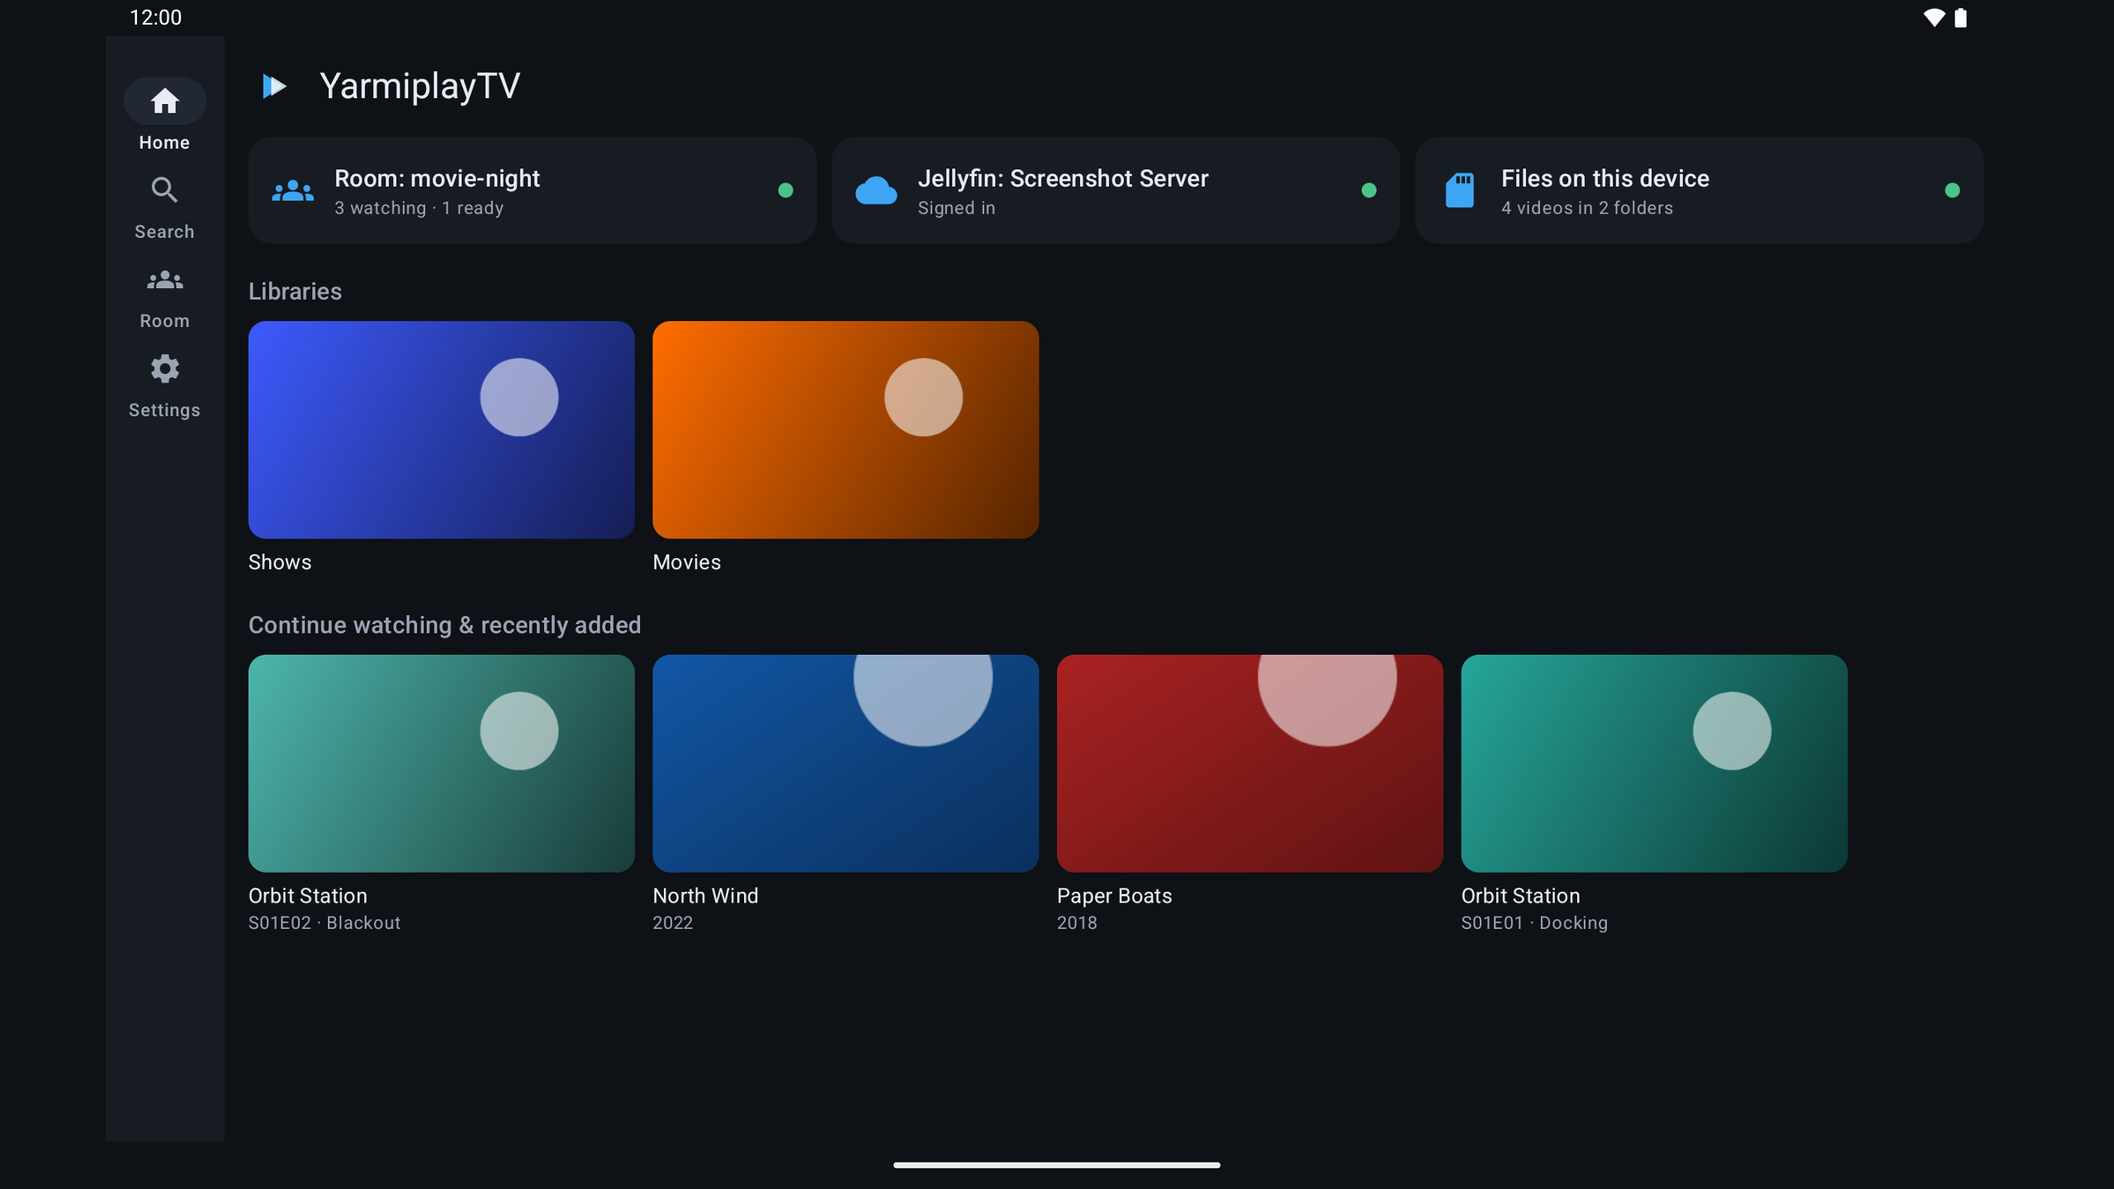
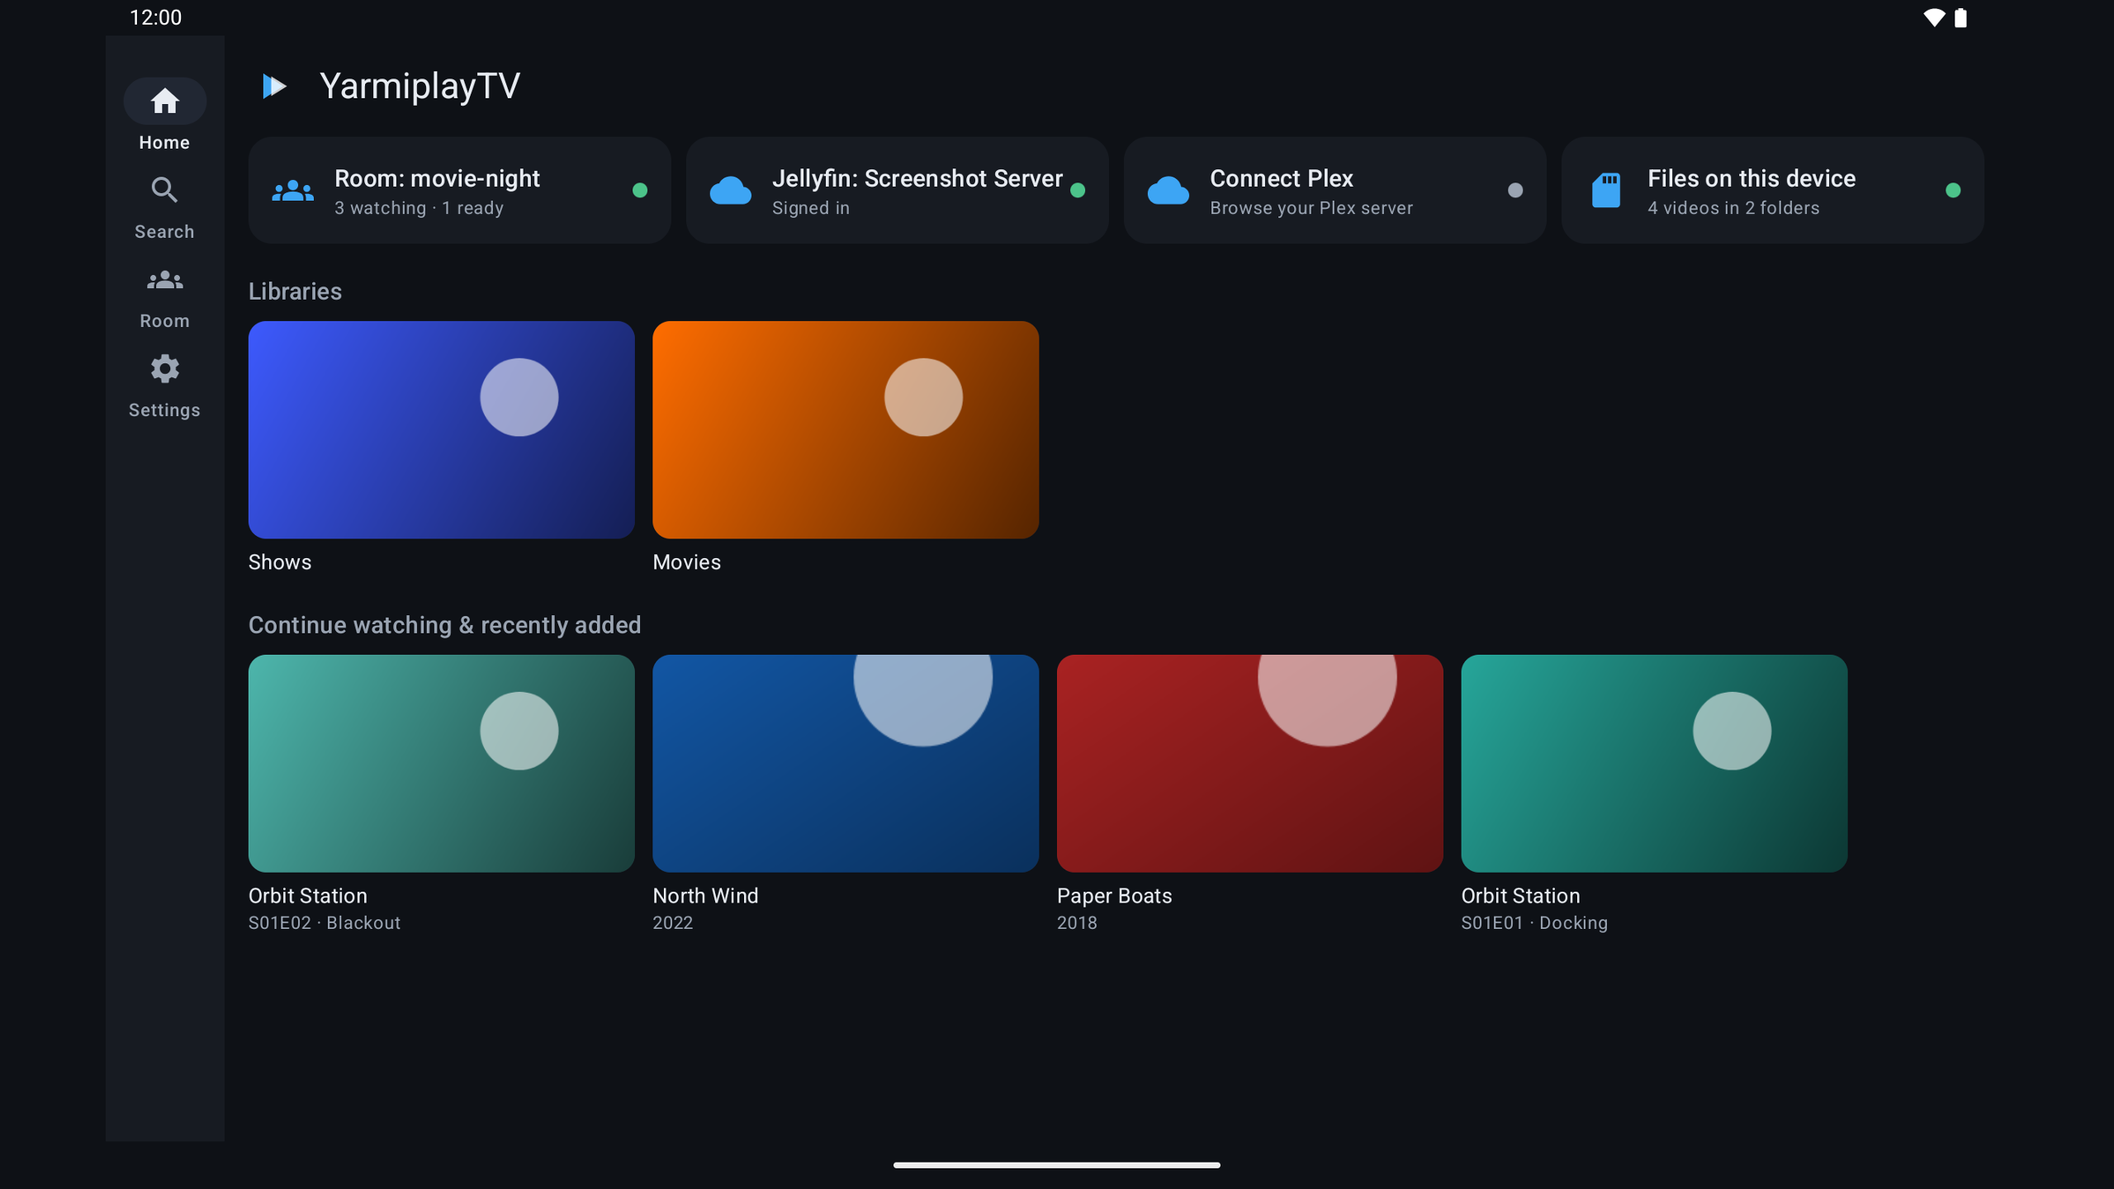
Play listing mentions Plex; testers page at /test/ with a footer link; Getting testers in the Play docs; manual Play upload from a Release run; Play screenshots from 1.4.2

Changed region(s): [[0.3125, 0.125, 0.875, 0.1875]]

diff --git a/scripts/download_site.py b/scripts/download_site.py
@@ -9,7 +9,8 @@ its download and install steps.
 Files in --dist are sorted onto platforms by extension (.apk: TV and phone/tablet, .msi/.zip: Windows,
 .dmg/.pkg: macOS, .deb/.rpm/.AppImage: Linux) and copied under stable names such as YarmiplayTV.apk, so links
 keep working across builds. <site>/a/ redirects to the APK for TV apps like Downloader, <site>/privacy/
-is docs/privacy.md (the Play Store privacy policy), and <site>/version.json lists each platform's package
+is docs/privacy.md (the Play Store privacy policy), <site>/test/ is docs/testers.md (how to join the Google Play
+test), and <site>/version.json lists each platform's package
 and version for the apps' update check. With --site-url the pages carry canonical URLs and the site a
 sitemap.xml for search engines; --indexnow-key publishes the key file that lets the Pages workflow notify IndexNow.
 Platforms without a file or store listing show how to run from source. The Pages workflow publishes the result; scripts/apk_server.py serves the
@@ -47,6 +48,15 @@ LOGO_SVG = (
     '<g transform="translate(54 54) scale(1.3) translate(-54 -54)">'
     '<path d="M30 28V80L70 54Z" fill="#3DA5F4"/><path d="M46 34V74L78 54Z" fill="#fff" fill-opacity=".8"/></g>'
     '</svg>'
+)
+# Markdown docs published as pages: file in docs/, folder on the site, footer link, search description.
+DOCS = (
+    ("privacy.md", "privacy", "Privacy",
+     f"{NAME} privacy policy: the app collects no data, has no accounts, analytics or ads, and only connects to "
+     "the servers you choose."),
+    ("testers.md", "test", "Help test on Google Play",
+     f"Help test {NAME} on Google Play: join the testers group, opt in, install it on your Android phone, tablet "
+     "or Google TV and use it for 14 days."),
 )
 # Store listings: the platform's main button, with its files as smaller buttons below.
 STORE_LINKS = {
@@ -188,9 +198,9 @@ def app_head(version, site_url=None, preview=False):
     return "\n".join(tags)
 
 
-def render_page(downloads, version, built, short_link=None, privacy=False, site_url=None,
+def render_page(downloads, version, built, short_link=None, docs=(), site_url=None,
                 google_verification=None, preview=False):
-    """downloads: {platform key: [Download]}. Returns the page as a str."""
+    """downloads: {platform key: [Download]}; docs: the DOCS entries published next to it. Returns the page as a str."""
     cards = []
     for p in platforms(short_link):
         files = downloads.get(p.key, [])
@@ -280,7 +290,7 @@ def render_page(downloads, version, built, short_link=None, privacy=False, site_
  <strong>Host your own server</strong>
  <p><a href="{SERVER_URL}">YarmiplayServerTV</a> runs a Syncplay server and a Jellyfin server from your Windows, macOS or Linux computer.</p>
 </section>
-<footer><a href="{REPO_URL}">Source</a>{' &middot; <a href="privacy/">Privacy</a>' if privacy else ''}
+<footer><a href="{REPO_URL}">Source</a>{''.join(f' &middot; <a href="{folder}/">{label}</a>' for _, folder, label, _ in docs)}
  &middot; <a href="{REPO_URL}#code-signing-policy">Code signing policy</a></footer>
 </main>
 <script>
@@ -318,8 +328,9 @@ def inline_markdown(text):
 
 
 def markdown_to_html(md):
-    """The Markdown docs/privacy.md uses: # headings, paragraphs and "- " lists, lines wrapped freely."""
+    """The Markdown the docs pages use: # headings, paragraphs, "- " and "1. " lists, lines wrapped freely."""
     blocks, para, items = [], [], []
+    list_tag = "ul"
 
     def flush():
         if para:
@@ -327,22 +338,25 @@ def markdown_to_html(md):
             para.clear()
         if items:
             lis = "".join(f"<li>{inline_markdown(html.escape(i, quote=False))}</li>" for i in items)
-            blocks.append(f"<ul>{lis}</ul>")
+            blocks.append(f"<{list_tag}>{lis}</{list_tag}>")
             items.clear()
 
     for line in md.splitlines():
         stripped = line.strip()
         heading = re.match(r"(#{1,3}) (.+)", stripped)
+        item = re.match(r"(-|\d+\.) (.+)", stripped)
         if not stripped:
             flush()
         elif heading:
             flush()
             level = len(heading.group(1))
             blocks.append(f"<h{level}>{inline_markdown(html.escape(heading.group(2), quote=False))}</h{level}>")
-        elif stripped.startswith("- "):
-            if para:
+        elif item:
+            tag = "ul" if item.group(1) == "-" else "ol"
+            if para or (items and tag != list_tag):
                 flush()
-            items.append(stripped[2:])
+            list_tag = tag
+            items.append(item.group(2))
         elif items and line.startswith(" "):
             items[-1] += " " + stripped
         else:
@@ -442,15 +456,18 @@ def build(dist, out, version, site_url, desktop_version=None, google_verificatio
 
     root = os.path.dirname(os.path.dirname(os.path.abspath(__file__)))
     pages = [""]
-    privacy = os.path.join(root, "docs", "privacy.md")
-    if os.path.isfile(privacy):
-        os.makedirs(os.path.join(out, "privacy"))
-        with open(privacy, encoding="utf-8") as src, \
-                open(os.path.join(out, "privacy", "index.html"), "w", encoding="utf-8") as f:
-            f.write(render_doc(src.read(), f"{NAME} privacy policy: the app collects no data, has no accounts, "
-                               "analytics or ads, and only connects to the servers you choose.",
-                               site_url, "privacy/"))
-        pages.append("privacy/")
+    docs = []
+    for doc in DOCS:
+        name, folder, _, description = doc
+        md = os.path.join(root, "docs", name)
+        if not os.path.isfile(md):
+            continue
+        os.makedirs(os.path.join(out, folder))
+        with open(md, encoding="utf-8") as src, \
+                open(os.path.join(out, folder, "index.html"), "w", encoding="utf-8") as f:
+            f.write(render_doc(src.read(), description, site_url, f"{folder}/"))
+        pages.append(f"{folder}/")
+        docs.append(doc)
 
     with open(os.path.join(out, "favicon.svg"), "w", encoding="utf-8") as f:
         f.write(LOGO_SVG.replace("<svg ", '<svg xmlns="http://www.w3.org/2000/svg" ', 1))
@@ -461,7 +478,7 @@ def build(dist, out, version, site_url, desktop_version=None, google_verificatio
     now = datetime.datetime.now(datetime.timezone.utc)
     built = now.strftime("%Y-%m-%d %H:%M UTC")
     with open(os.path.join(out, "index.html"), "w", encoding="utf-8") as f:
-        f.write(render_page(by_platform(downloads), version, built, short_link, os.path.isfile(privacy), site_url,
+        f.write(render_page(by_platform(downloads), version, built, short_link, docs, site_url,
                             google_verification, preview))
     if site_url:
         with open(os.path.join(out, "sitemap.xml"), "w", encoding="utf-8") as f:

diff --git a/docs/play/README.md b/docs/play/README.md
@@ -22,7 +22,7 @@ re-recording screenshots.
 
 **Short description** (80 max):
 
-> Watch videos in sync with friends. Works with Syncplay servers and Jellyfin.
+> Watch videos in sync with friends. Works with Syncplay, Jellyfin and Plex.
 
 **Full description:**
 
@@ -39,9 +39,10 @@ re-recording screenshots.
 > • Small drifts are corrected smoothly, big ones by jumping back in sync
 >
 > YOUR VIDEOS, YOUR WAY
-> • Browse and search your Jellyfin library, sign in with Quick Connect
+> • Browse and search your Jellyfin and Plex libraries, on several servers at once
+> • Sign in to Jellyfin with Quick Connect and to Plex at plex.tv/link, no typing on the TV
 > • Play files from your phone or tablet, or add whole folders
-> • When the room plays a file, YarmiplayTV finds it in your Jellyfin library or folders by itself
+> • When the room plays a file, YarmiplayTV finds it in your libraries or folders by itself
 >
 > A REAL PLAYER
 > • Built on mpv: plays almost any format, with hardware decoding
@@ -55,9 +56,9 @@ re-recording screenshots.
 > No accounts, no ads, no tracking. YarmiplayTV is open source:
 > https://github.com/Yarmiplay/YarmiplayTV
 >
-> YarmiplayTV is an independent app. It is not affiliated with or endorsed by the Syncplay project or
-> Jellyfin. Syncplay and Jellyfin are named only to describe compatibility. YarmiplayTV doesn't provide
-> any videos: you watch your own files and media servers.
+> YarmiplayTV is an independent app. It is not affiliated with or endorsed by the Syncplay project, Jellyfin
+> or Plex, which are named only to describe compatibility. YarmiplayTV doesn't provide any videos: you watch
+> your own files and media servers.
 
 **Category:** Video Players & Editors. **Tags:** video player, watch party (pick the closest offered).
 **Contact email:** required, shown publicly; use an address you're happy to publish.
@@ -72,7 +73,8 @@ re-recording screenshots.
 **App access:** "All functionality is available without special access." For the reviewer notes:
 "No account is needed. To try sync, open Room (or Join a Syncplay room on TV), keep the server syncplay.pl
 port 8999, enter any name and a room name such as reviewtest, and connect. Play a video from the device to
-see the shared player. Jellyfin is optional and needs the user's own server."
+see the shared player. Jellyfin and Plex are optional and need the user's own server (and, for Plex, a Plex
+account)."
 
 **Content rating questionnaire (IARC):** category "All other app types". Answer No to violence, sexuality,
 language, controlled substances, gambling. Answer **Yes** to "users can interact or exchange content" (room
@@ -86,16 +88,18 @@ doesn't apply. Answer No to "could unintentionally appeal to children".
 
 **Data safety:**
 - "Does your app collect or share any of the required user data types?" **No.** The developer receives
-  nothing; the app only connects to servers the user enters, like other Jellyfin and Syncplay clients. The
-  Play build (release) doesn't run the download page's update check.
+  nothing; the app only connects to servers the user enters or picks (and to plex.tv when the user signs in
+  to Plex), like other Syncplay, Jellyfin and Plex clients. Watch progress goes only to the user's own media
+  servers. The Play build (release) doesn't run the download page's update check.
 - "Is all of the user data collected by your app encrypted in transit?" isn't asked when nothing is
-  collected. If you choose to declare the room data instead (see below), answer No: plain Syncplay and
-  local Jellyfin servers aren't encrypted.
+  collected. If you choose to declare the room data instead (see below), answer No: plain Syncplay servers
+  and Jellyfin and Plex servers on a home network over HTTP aren't encrypted.
 - "Do you provide a way for users to request that their data is deleted?" Not asked when nothing is collected.
-- A more cautious alternative, because the default server syncplay.pl is run by a third party: declare
-  Personal info > Name and Messages > Other in-app messages as **shared**, not collected, for **App
-  functionality**, not optional, and not processed by the developer. Either way, keep it consistent with
-  `docs/privacy.md`.
+- A more cautious alternative, because the default server syncplay.pl and plex.tv are run by third parties:
+  declare Personal info > Name and Messages > Other in-app messages (the Syncplay room), and Device or other
+  IDs (the random device id plex.tv gets at sign-in), as **shared**, not collected, for **App
+  functionality**; Name and Messages not optional, the device id optional (only with Plex); none processed
+  by the developer. Either way, keep it consistent with `docs/privacy.md`.
 
 **Permissions declarations:** none needed (no SMS, call log, location, all-files access or background
 location).
@@ -113,26 +117,46 @@ location).
 1. **Internal testing:** upload the bundle from the `Release bundle` workflow (or a local
    `:app:bundleRelease`) and add yourself as a tester. Install from the opt-in link on a phone and on a Google
    TV to check that the Play build works.
-2. **Closed testing** (required for personal accounts created after November 2023): create a closed track with
-   a Google Group or an email list of at least **12 testers**, who must stay opted in for **14 days in a row**.
-   Google also looks at whether testers actually use the app, so ask them to join a room together a few times
-   during those two weeks, on phones and TVs. Fix anything in the pre-launch report (crashes, ANRs,
-   accessibility warnings worth fixing) and upload a new version if needed; the 14 days don't restart.
-   A message for testers:
-
-   > I'm testing my watch-together app YarmiplayTV before it goes on Google Play, and Google needs 12 people
-   > to try it for two weeks. 1) Join the testers group: <group link>. 2) Open <opt-in link> on your Android
-   > phone, tablet or Google TV and tap "Become a tester", then install from Play. 3) Keep it installed for 14
-   > days and join our room a few times (server syncplay.pl, port 8999, room <room>), so we can watch
-   > something together. Tell me anything that breaks or confuses you.
-
+2. **Closed testing** (required for personal accounts created after November 2023): the `alpha` track, with
+   the Google Group `yarmiplaytv-testers@googlegroups.com` as testers and all countries. It needs at least
+   **12 testers** who stay opted in for **14 days in a row**. Google also looks at whether testers actually
+   use the app, so ask them to join a room together a few times during those two weeks, on phones and TVs.
+   Fix anything in the pre-launch report (crashes, ANRs, accessibility warnings worth fixing) and upload a new
+   version if needed; the 14 days don't restart. See [Getting testers](#getting-testers).
 3. **Apply for production** (Dashboard > Apply for production) after the 14 days. It asks how testers were
    recruited, what feedback came in and what changed; answer from the test. Review takes up to about a week.
 4. **Production:** roll out, staged if you like. The TV opt-in is reviewed separately and can take longer.
+   Then set the variable `PLAY_TRACK` to `production`.
+
+## Getting testers
+
+Testers join on their own from the testers page, `https://yarmiplay.github.io/YarmiplayTV/test/` (from
+`docs/testers.md`, linked in the download page's footer). It walks them through joining the Google Group
+(`https://groups.google.com/g/yarmiplaytv-testers`: anyone can join, members can't see each other's
+addresses), the opt-in link `https://play.google.com/apps/testing/com.yarmiplaytv` and installing from Play,
+and asks people with the download page's APK to uninstall it first. The opt-in link only works once the
+closed track has passed review; until then the page tells people to come back later.
+
+- **Share the page** wherever friends and Syncplay users are: chats, the GitHub README or release notes,
+  forums. A message:
+
+  > I'm getting my watch-together app YarmiplayTV onto Google Play, and Google needs 12 people to test it for
+  > two weeks first. If you have an Android phone, tablet or Google TV, joining takes a few minutes:
+  > https://yarmiplay.github.io/YarmiplayTV/test/. Then keep it installed for 14 days and join our room a few
+  > times (server syncplay.pl, port 8999, room <room>), so we can watch something together. Tell me anything
+  > that breaks or confuses you.
+
+- **Count:** Play Console > Test and release > Testing > Closed testing > the track > **Testers** shows how
+  many people have opted in. Group members who never opened the opt-in link don't count.
+- **Apply for production** once at least 12 testers have stayed opted in for 14 days in a row: the Dashboard
+  then offers **Apply for production** (see Releases, step 3). Keep the closed track running while the
+  application is reviewed.
 
 ## Automatic uploads
 
-After the first bundle has been uploaded by hand, the Release run's `play` job can upload each version:
+After the first bundle has been uploaded by hand, the Release run's `play` job uploads each version tag's
+bundle. A manual Release run (Actions > Release > Run workflow) with **play** checked uploads the chosen
+branch's bundle without a tag, as long as its version code isn't on Play yet. Set it up once:
 
 1. In [Google Cloud](https://console.cloud.google.com/), enable the **Google Play Android Developer API** in a
    project, create a service account there and download a JSON key for it.

diff --git a/docs/testers.md b/docs/testers.md
@@ -1,0 +1,49 @@
+# Help test YarmiplayTV on Google Play
+
+YarmiplayTV is on its way to Google Play. Before Google lets a new app in, at least 12 people have to test it
+for 14 days in a row. If you'd like to help, it takes a few minutes to join, and then you just use the app now
+and then.
+
+## Who can join
+
+Anyone with an Android phone, tablet or Google TV / Android TV (Android 8.0 or newer) and a Google account.
+It's free, and you don't need to know any of the other testers.
+
+## Join in three steps
+
+1. Join the testers group, [groups.google.com/g/yarmiplaytv-testers](https://groups.google.com/g/yarmiplaytv-testers),
+   with the Google account you use on your device: choose **Join group**. Members can't see each other's
+   email addresses.
+2. Open the testing page, [play.google.com/apps/testing/com.yarmiplaytv](https://play.google.com/apps/testing/com.yarmiplaytv),
+   signed in with the same account, and choose **Become a tester**.
+3. Install YarmiplayTV from Google Play: from
+   [its Play page](https://play.google.com/store/apps/details?id=com.yarmiplaytv), where you can pick the
+   device to install on, or by searching for YarmiplayTV in the Play Store on your phone, tablet or TV.
+
+If the testing page says the app isn't available, the test hasn't opened yet: try again in a few days.
+
+If you installed YarmiplayTV from the download page before, uninstall it first. That version is signed with a
+different key, so Google Play can't install over it. You'll have to enter your servers and name again.
+
+## While you test
+
+- Keep the app installed and stay a tester for 14 days. Google counts the testers who stay that long.
+- Use it now and then: watch something with friends, or try sync on your own by joining the same room from a
+  phone and a TV (server syncplay.pl, port 8999, any room name). Google checks that testers actually use the
+  app.
+- Updates come from Google Play like for any other app.
+
+## Feedback
+
+- In the Play Store, YarmiplayTV's page has a feedback section for testers that only the developer sees.
+- Or open an issue on GitHub: [github.com/Yarmiplay/YarmiplayTV/issues](https://github.com/Yarmiplay/YarmiplayTV/issues).
+  Issues are public.
+
+Anything that breaks, looks wrong on your screen or confuses you is worth a note.
+
+## Leaving
+
+Open the testing page again and choose **Leave the program**, and leave the group if you like. You can keep
+the app: once YarmiplayTV is public on Google Play, it updates from there.
+
+The app collects no data; see the [privacy policy](../privacy/).
